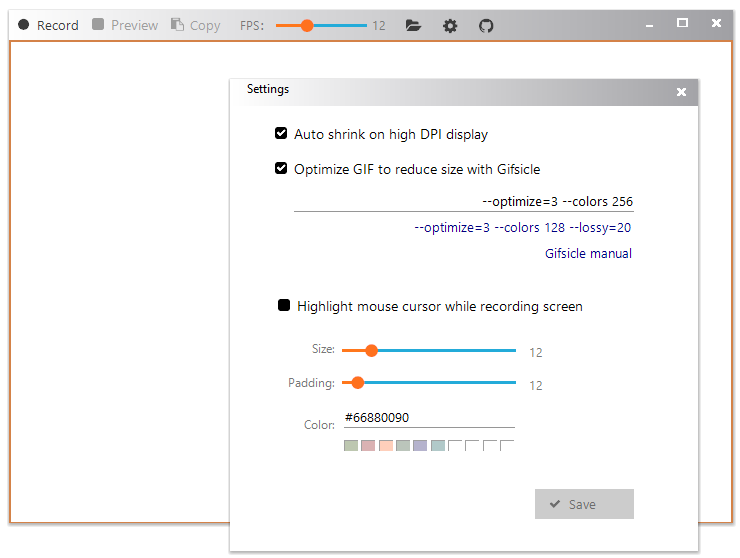
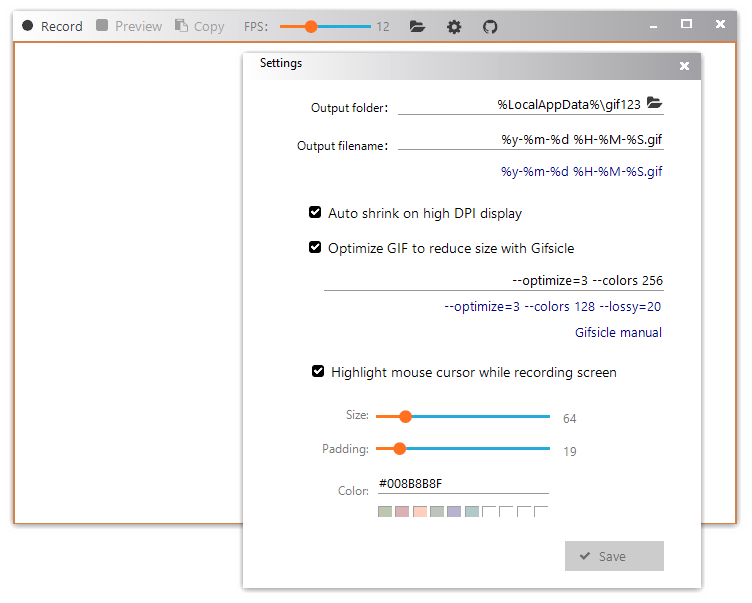
Release 2.0

diff --git a/README.md b/README.md
@@ -2,14 +2,14 @@
 
 [English](./README.en_US.md) | 简体中文
 
-GIF 录屏工具, 可以方便地预览、并复制到剪贴板。  
-[执行文件](https://gif123.aardio.com/download/Gif123.7z) 仅 780 KB 。
+极简 GIF 录屏工具, 可以方便地预览、并复制到剪贴板。  
+[执行文件](https://gif123.aardio.com/download/Gif123.7z) 仅 790 KB 。
 
 兼容 XP，Vista，Win7，Win8，Win10，Win11...... 等所有流行桌面操作系统。 本软件复制的 GIF 文件可直接粘贴到 QQ、浏览器编辑器（例如微信公众号编辑器），不会出现无法预览、无效图像等问题。 
 
 ![screenshot](./screenshots/zh.png)
 
-![screenshot](./screenshots/zh-ide.jpg)
+![screenshot](./screenshots/zh2.png)
 
 # 开源许可
 

diff --git a/README.en_US.md b/README.en_US.md
@@ -3,13 +3,13 @@
 English | [简体中文](./README.md)
 
 Record an area of your desktop to a GIF, and copy it directly to the clipboard.  
-[The executable file](https://gif123.aardio.com/download/Gif123.7z) size is 780 KMB only.  
+[The executable file](https://gif123.aardio.com/download/Gif123.7z) size is 790 KMB only.  
   
 This utility works on any version of Windows, starting from Windows XP and up to Windows 11. Both 32-bit and 64-bit systems are supported.
 
 ![screenshot](./screenshots/en.png)
 
-![screenshot](./screenshots/zh-ide.jpg)
+![screenshot](./screenshots/en2.png)
 
 # License
 
